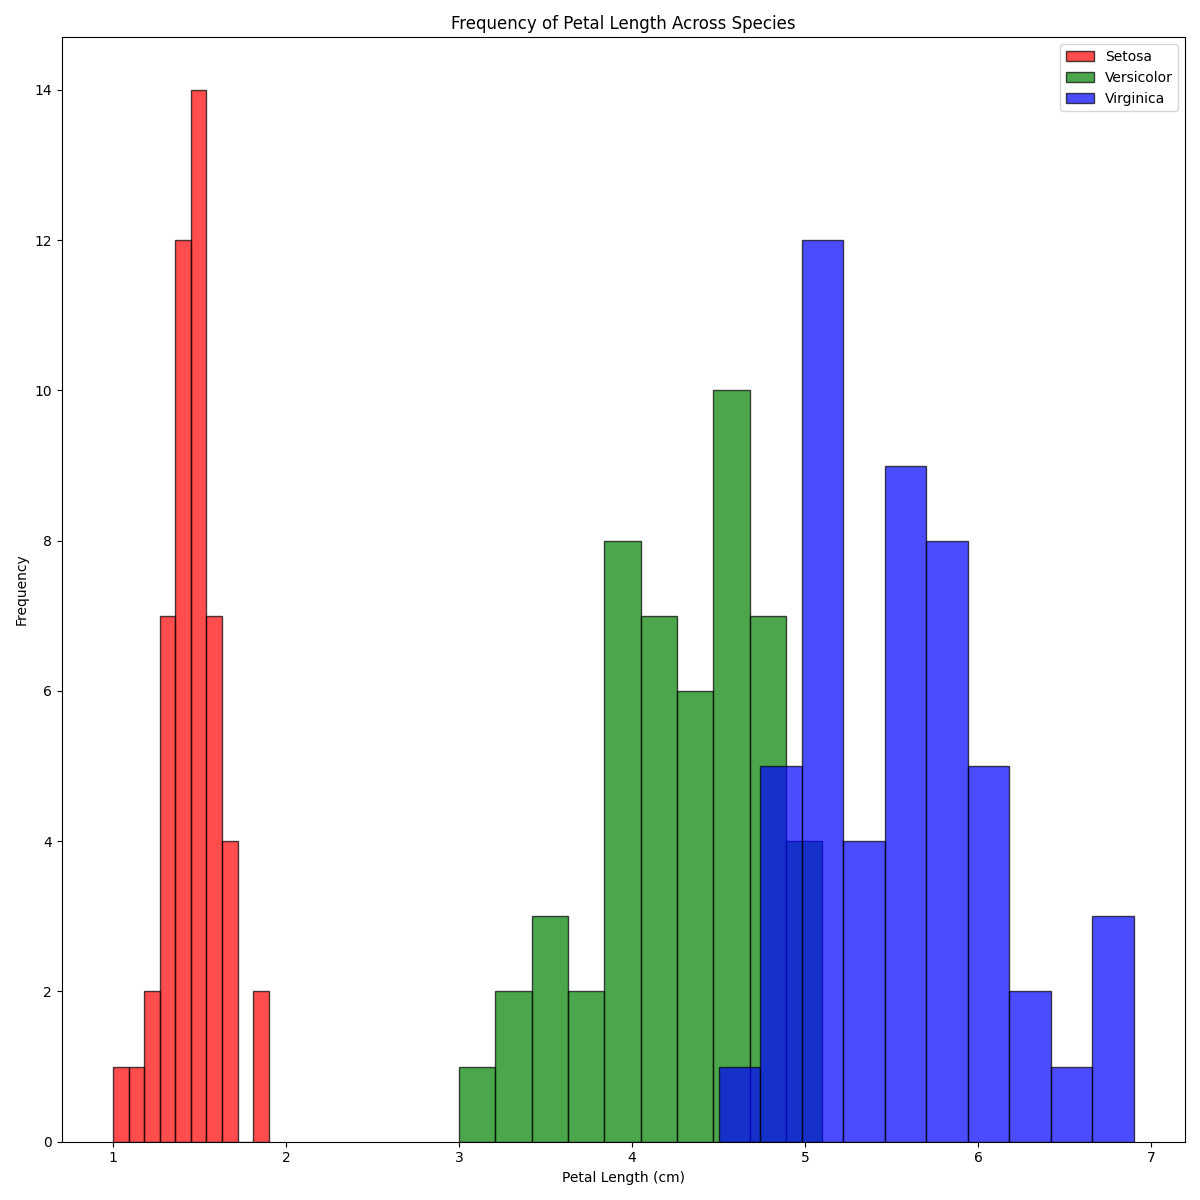
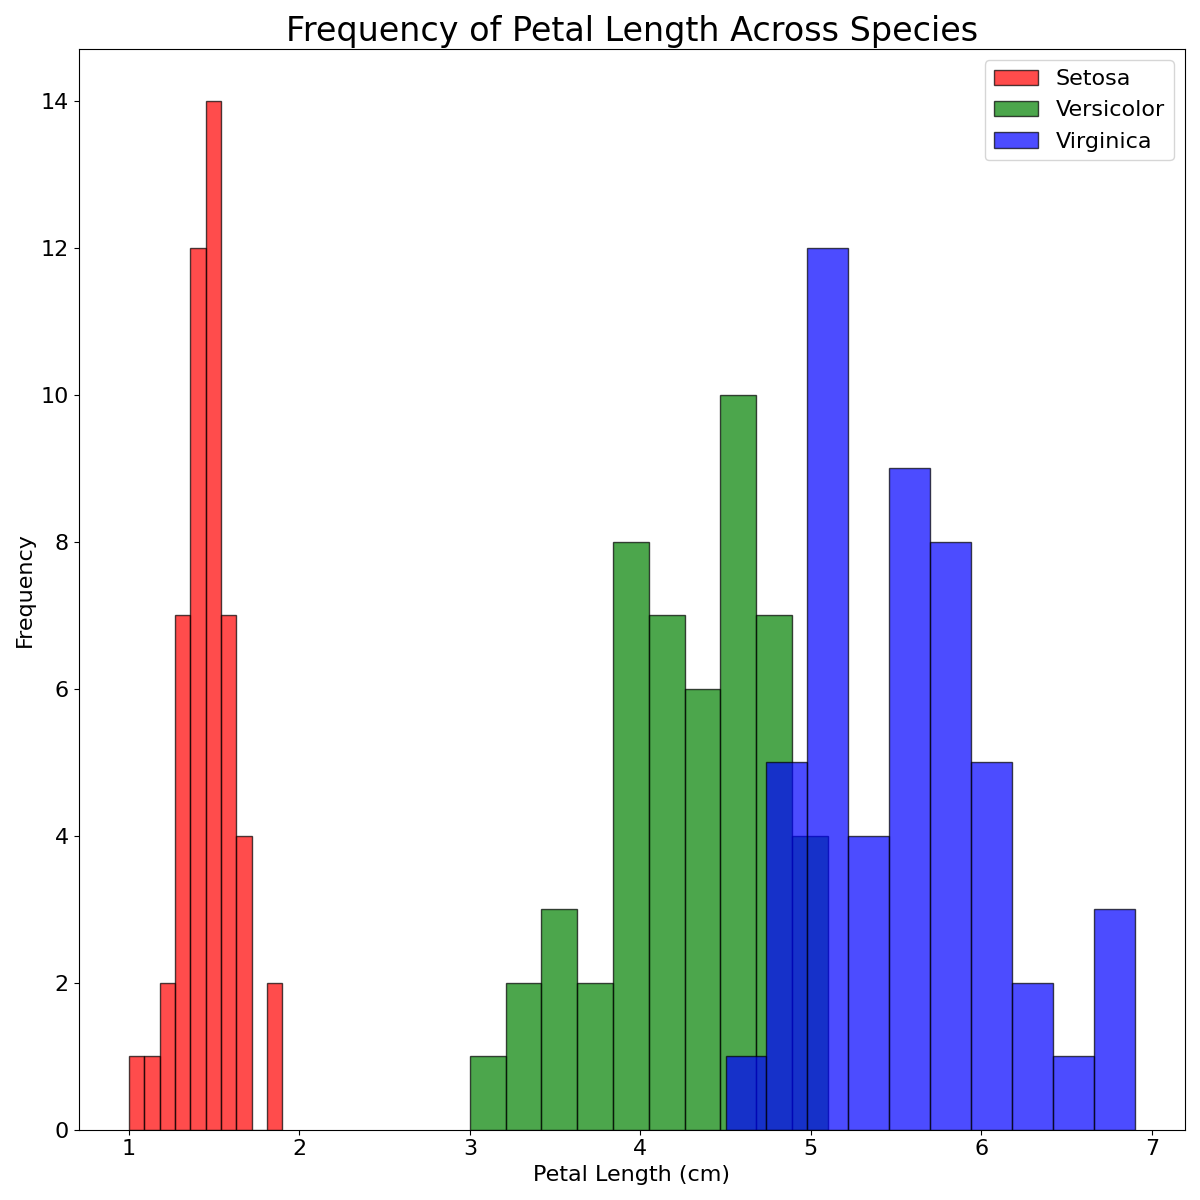
updated the histogram text to improve readability

diff --git a/analysis_code.py b/analysis_code.py
@@ -236,10 +236,12 @@ def plot_histograms(data, variables, variables_titles, species, colours, labels,
                      color=colours[j], label=labels[j], edgecolor='black')
         
         # Add title, labels, and legend
-        plt.title(f'Frequency of {variables_titles[i]} Across Species')
-        plt.xlabel(f'{variables_titles[i]} (cm)')
-        plt.ylabel('Frequency')
-        plt.legend()
+        plt.title(f'Frequency of {variables_titles[i]} Across Species', fontsize=24)
+        plt.xlabel(f'{variables_titles[i]} (cm)', fontsize=16)
+        plt.ylabel('Frequency', fontsize=16)
+        plt.legend(fontsize=16)
+        plt.xticks(fontsize=16)
+        plt.yticks(fontsize=16)
 
         # Save the plot as a PNG file
         filename = output_dir / f'{variable}_histogram.png'
